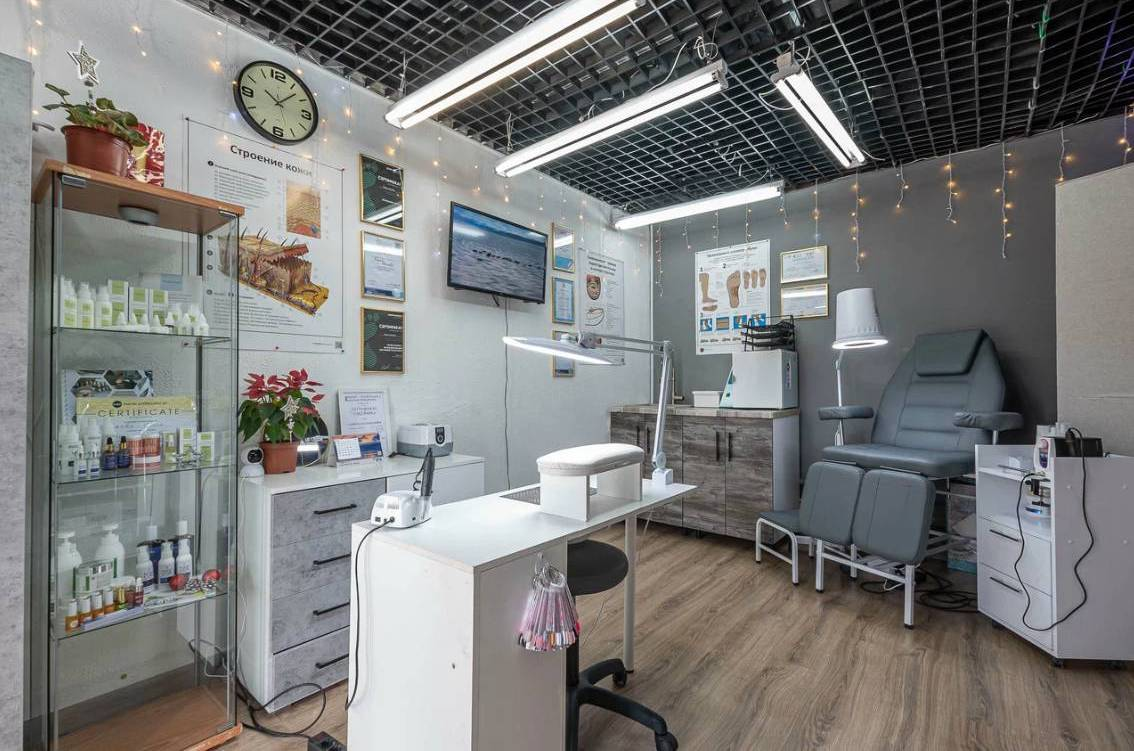
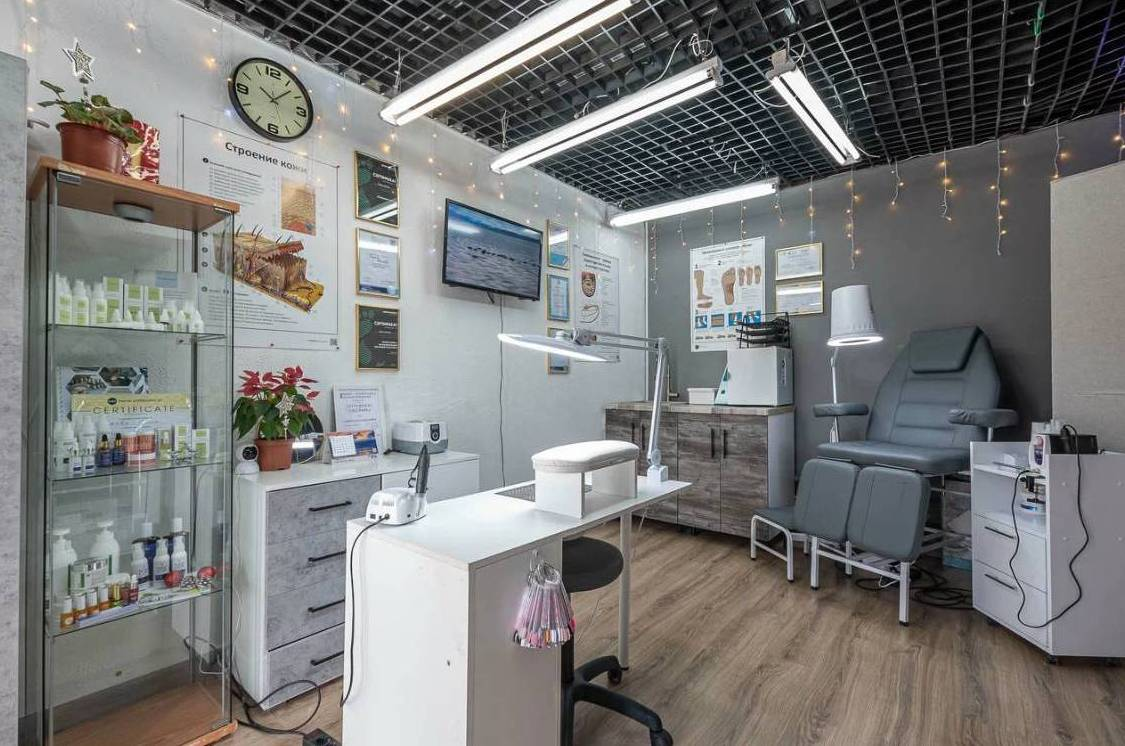
cabinet pics added & feddback hovers changed

diff --git a/src/shared/store.tsx b/src/shared/store.tsx
@@ -30,7 +30,30 @@ import cab3 from "../../public/img/cabinet/cab3.jpg"
 import cab3SM from "../../public/img/cabinet/cab3SM.jpg"
 import cab4 from "../../public/img/cabinet/cab4.jpg"
 import cab4SM from "../../public/img/cabinet/cab4SM.jpg"
-
+import cab5 from "../../public/img/cabinet/cab5.jpg"
+import cab5SM from "../../public/img/cabinet/cab5SM.jpg"
+import cab6 from "../../public/img/cabinet/cab6.jpg"
+import cab6SM from "../../public/img/cabinet/cab6SM.jpg"
+import cab7 from "../../public/img/cabinet/cab7.jpg"
+import cab7SM from "../../public/img/cabinet/cab7SM.jpg"
+import cab8 from "../../public/img/cabinet/cab8.jpg"
+import cab8SM from "../../public/img/cabinet/cab8SM.jpg"
+import cab9 from "../../public/img/cabinet/cab9.jpg"
+import cab9SM from "../../public/img/cabinet/cab9SM.jpg"
+import cab10 from "../../public/img/cabinet/cab10.jpg"
+import cab10SM from "../../public/img/cabinet/cab10SM.jpg"
+import cab11 from "../../public/img/cabinet/cab11.jpg"
+import cab11SM from "../../public/img/cabinet/cab11SM.jpg"
+import cab12 from "../../public/img/cabinet/cab12.jpg"
+import cab12SM from "../../public/img/cabinet/cab12SM.jpg"
+import cab13 from "../../public/img/cabinet/cab13.jpg"
+import cab13SM from "../../public/img/cabinet/cab13SM.jpg"
+import cab14 from "../../public/img/cabinet/cab14.jpg"
+import cab14SM from "../../public/img/cabinet/cab14SM.jpg"
+import cab15 from "../../public/img/cabinet/cab15.jpg"
+import cab15SM from "../../public/img/cabinet/cab15SM.jpg"
+import cab16 from "../../public/img/cabinet/cab16.jpg"
+import cab16SM from "../../public/img/cabinet/cab16SM.jpg"
 //NavBar
 type NavBarLinks = {
   links: INavBarLinks[]
@@ -71,8 +94,80 @@ export const useCabinetImages = create<CabinetImages>(() => ({
       id: uuidv1(),
       image: cab4,
       imageSM: cab4SM,
-      placeholder: 'аппарат для Smart педикюра'
-    }
+      placeholder: 'кабинет общий вид'
+    },
+    {
+      id: uuidv1(),
+      image: cab5,
+      imageSM: cab5SM,
+      placeholder: 'кабинет общий вид'
+    },
+    {
+      id: uuidv1(),
+      image: cab6,
+      imageSM: cab6SM,
+      placeholder: 'кабинет общий вид'
+    },
+    {
+      id: uuidv1(),
+      image: cab7,
+      imageSM: cab7SM,
+      placeholder: 'аппарат для подологии'
+    },
+    {
+      id: uuidv1(),
+      image: cab8,
+      imageSM: cab8SM,
+      placeholder: 'аппарат для подологии'
+    },
+    {
+      id: uuidv1(),
+      image: cab9,
+      imageSM: cab9SM,
+      placeholder: 'стирилизованные инструменты'
+    },
+    {
+      id: uuidv1(),
+      image: cab10,
+      imageSM: cab10SM,
+      placeholder: 'уходовые средства для ног и рук'
+    },
+    {
+      id: uuidv1(),
+      image: cab11,
+      imageSM: cab11SM,
+      placeholder: 'уходовые средства PodoFarm'
+    },
+    {
+      id: uuidv1(),
+      image: cab12,
+      imageSM: cab12SM,
+      placeholder: 'уходовые средства'
+    },
+    {
+      id: uuidv1(),
+      image: cab13,
+      imageSM: cab13SM,
+      placeholder: 'вход с улицы'
+    },
+    {
+      id: uuidv1(),
+      image: cab14,
+      imageSM: cab14SM,
+      placeholder: 'вход с улицы'
+    },
+    {
+      id: uuidv1(),
+      image: cab15,
+      imageSM: cab15SM,
+      placeholder: 'вход с улицы'
+    },
+    {
+      id: uuidv1(),
+      image: cab16,
+      imageSM: cab16SM,
+      placeholder: 'вход с улицы'
+    },
   ]
 }))
 

diff --git a/src/pages/Home/Home.tsx b/src/pages/Home/Home.tsx
@@ -14,7 +14,6 @@ import { ContainerGreen } from "../../shared/ui/ContainerGreen/ContainerGreen";
 import { SpecialOffers } from "../../widgets/SpecialOffers/SpecialOffers";
 import { OnlineBooking } from "../../widgets/OnlineBooking/OnlineBooking";
 
-
 export const Home: FC = () => {
     const { mainPageText, mainImg, mainImgSm } = useTexts((state) => state);
     const { setActiveCategory } = useServecies((state) => state);
@@ -26,7 +25,7 @@ export const Home: FC = () => {
                         <HeaderH2>Центр подологии</HeaderH2>
                         <HeaderH1>Ольги Нагаевой</HeaderH1>
                         <List list={mainPageText} />
-                        <div className={c.topBlock_btn}><Link to={`/specialists/Nagaeva_O`}><Button width={"241px"}>подробнее</Button></Link></div>
+                        <div className={c.topBlock_btn}><Link to={`/about`}><Button width={"241px"}>подробнее</Button></Link></div>
                     </div>
                     <div className={c.topBlock_img}>
                         <LazyLoadImage src={mainImg} placeholderSrc={mainImgSm} alt="Podolog Nagaeva Olga" />

diff --git a/src/entities/FeedBackItem/FeedBackItem.tsx b/src/entities/FeedBackItem/FeedBackItem.tsx
@@ -3,9 +3,17 @@ import c from "./FeedBacks.module.css"
 import { Link } from 'react-router-dom';
 import { useServecies } from '../../shared/store';
 import { IServece } from '../../shared/inteface';
-import foot from "../../../public/icons/foot.svg"
+import foot from "../../../public/icons/foot.svg";
+
+interface CLientI {
+    text: string
+    nickname: string
+    service: IServece[]
+    link?: string
+}
+
 type FeedBackItemProps = {
-    client: any
+    client: CLientI
 }
 
 const FeedBackItem: FC<FeedBackItemProps> = ({ client }) => {
@@ -20,7 +28,7 @@ const FeedBackItem: FC<FeedBackItemProps> = ({ client }) => {
                     <div className={c.links}>
                         {client.service.map((item: IServece) =>
                             <div className={c.links_name} key={item.id} onClick={() => setActiveCategory(item.link)}>
-                                <Link to="./servecies">{item.name}</Link>
+                                <Link to="./servecies">#{item.name}</Link>
                             </div>
                         )}
                     </div>

diff --git a/src/pages/About/About.tsx b/src/pages/About/About.tsx
@@ -6,6 +6,8 @@ import { OurSlogansBlock } from "../../widgets/OurSlogansBlock/OurSlogansBlock";
 import { useAbout } from "../../shared/store";
 import { FC } from "react";
 import { CabinetSliderImg } from "../../widgets/CabinetSliderImg/CabinetSliderImg";
+import { LazyLoadImage } from "react-lazy-load-image-component";
+import sertificate from "../../../public/img/documents/sertificate.jpg"
 
 export const About: FC = () => {
     const { servecies, help } = useAbout((state) => state);
@@ -21,6 +23,8 @@ export const About: FC = () => {
             <List list={help} />
             <p className={c.slogan}>Я помогу вашим ногам и стопам стать здоровыми и иметь эстетичный вид!</p>
             <OurSlogansBlock />
+            <HeaderH2 textAlign="center">Лицензия</HeaderH2>
+            <div className={c.sertificate}><LazyLoadImage src={sertificate} alt="лицензия" /></div>
             <HeaderH2 textAlign="center">Кабинет</HeaderH2>
             <CabinetSliderImg />
         </Container>

diff --git a/src/main.tsx b/src/main.tsx
@@ -8,7 +8,6 @@ import { Home } from './pages/Home/Home.tsx'
 import { About } from './pages/About/About.tsx'
 import { Servecies } from './pages/Servecies/Servecies.tsx'
 import { Contacts } from './pages/Contacts/Contacts.tsx'
-import { Member } from './pages/Member/Member.tsx'
 import { Examples } from './pages/Examples/Examples.tsx'
 
 const router = createBrowserRouter([
@@ -30,12 +29,8 @@ const router = createBrowserRouter([
         element: <Servecies />,
       },
       {
-        path: "/specialists/:param",
-        element: <Member />,
-      },
-      {
         path: "/gallery",
-        element: <Examples/>,
+        element: <Examples />,
       },
       {
         path: "/contacts",

diff --git a/src/entities/FeedBackItem/FeedBacks.module.css b/src/entities/FeedBackItem/FeedBacks.module.css
@@ -44,22 +44,20 @@
     margin-bottom: 40px;
 }
 
-
-
-.links_name a:after {
-    display: block;
-    position: relative;
-    left: 0;
-    width: 0;
-    height: 1px;
-    background-color: var(--dark-green);
-    content: "";
-    transition: width 0.3s ease-out;
+.links_name,
+.block__link {
+    color: var(--hover-green);
+    transition: 0.5s;
 }
 
-.links_name a:hover:after,
-.links_name a:focus:after {
-    width: 100%;
+.links_name:hover,
+.block__link:hover {
+    color: var(--dark-green);
+    font-weight: 700;
+}
+
+.block__link_container {
+    text-align: right;
 }
 
 @media (min-width:576) {

diff --git a/src/app/styles/App.css b/src/app/styles/App.css
@@ -61,10 +61,17 @@ a {
 }
 
 .swiper-pagination-bullet {
-  height: 16px !important;
-  width: 16px !important;
+  height: 10px !important;
+  width: 10px !important;
 }
 
 .swiper-pagination-bullet-active {
   background-color: var(--dark-green) !important;
+}
+
+@media (min-width:500px) {
+  .swiper-pagination-bullet {
+    height: 16px !important;
+    width: 16px !important;
+  }
 }

diff --git a/src/widgets/CabinetSliderImg/CabinetSliderImg.module.css b/src/widgets/CabinetSliderImg/CabinetSliderImg.module.css
@@ -1,9 +1,16 @@
 .img {
-    padding-bottom: 60px;
+    padding-bottom: 35px;
     cursor: pointer;
-    width: 100%;
+    height: 100%;
+    overflow: hidden;
 }
 
-.SwiperSlide img{
+.SwiperSlide img {
     width: 100vw;
+}
+
+@media (min-width:540px) {
+    .img {
+        padding-bottom: 60px;
+    }
 }

diff --git a/src/widgets/FeedBacksBlock/FeedBacksBlock.tsx b/src/widgets/FeedBacksBlock/FeedBacksBlock.tsx
@@ -1,7 +1,6 @@
 import { useEffect, useState } from 'react';
 import { useFeedbacks } from '../../shared/store'
 import { Swiper, SwiperSlide, } from 'swiper/react';
-// @ts-ignore
 import { Navigation, Pagination, Scrollbar, A11y } from 'swiper';
 import 'swiper/css';
 import 'swiper/css/navigation';

diff --git a/src/widgets/ServeciesBlock/ServeciesBlock.module.css b/src/widgets/ServeciesBlock/ServeciesBlock.module.css
@@ -38,6 +38,7 @@
     color: var(--black);
     border-radius: 0 0 20px;
     backdrop-filter: blur(30px);
+    text-align: center;
 }
 
 .block__item_header {

diff --git a/src/pages/About/About.module.css b/src/pages/About/About.module.css
@@ -18,6 +18,10 @@
     font-size: 25px;
 }
 
+.sertificate img{
+    margin: 0 auto 100px;
+}
+
 @media (min-width: 576px) {
 
     .bold,
